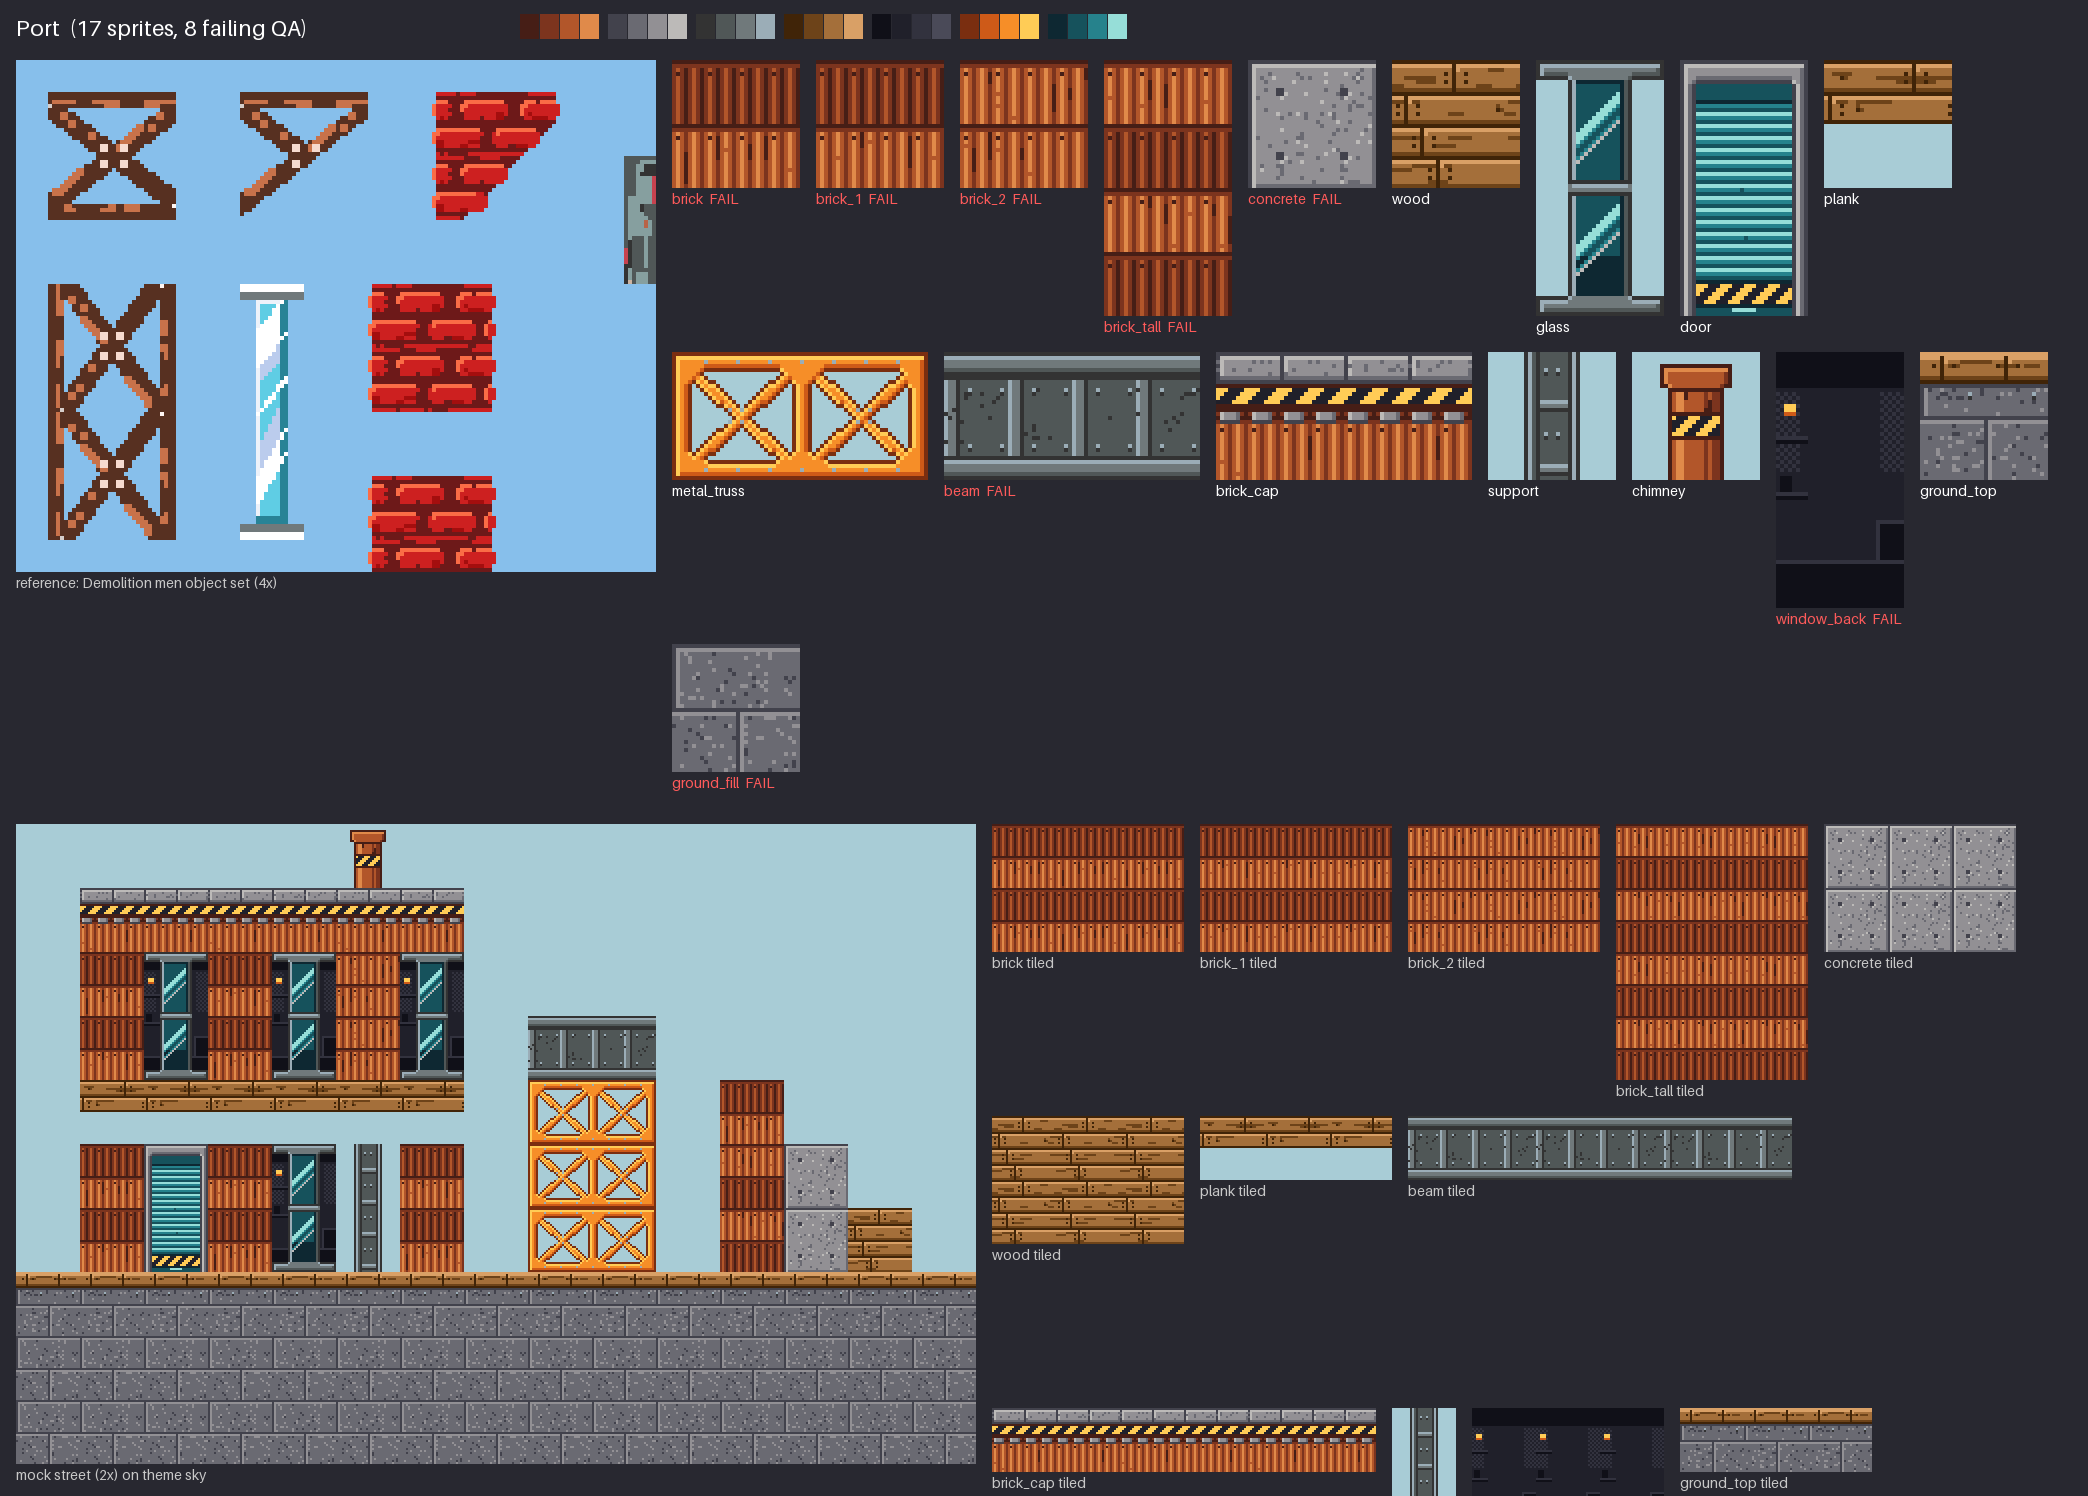
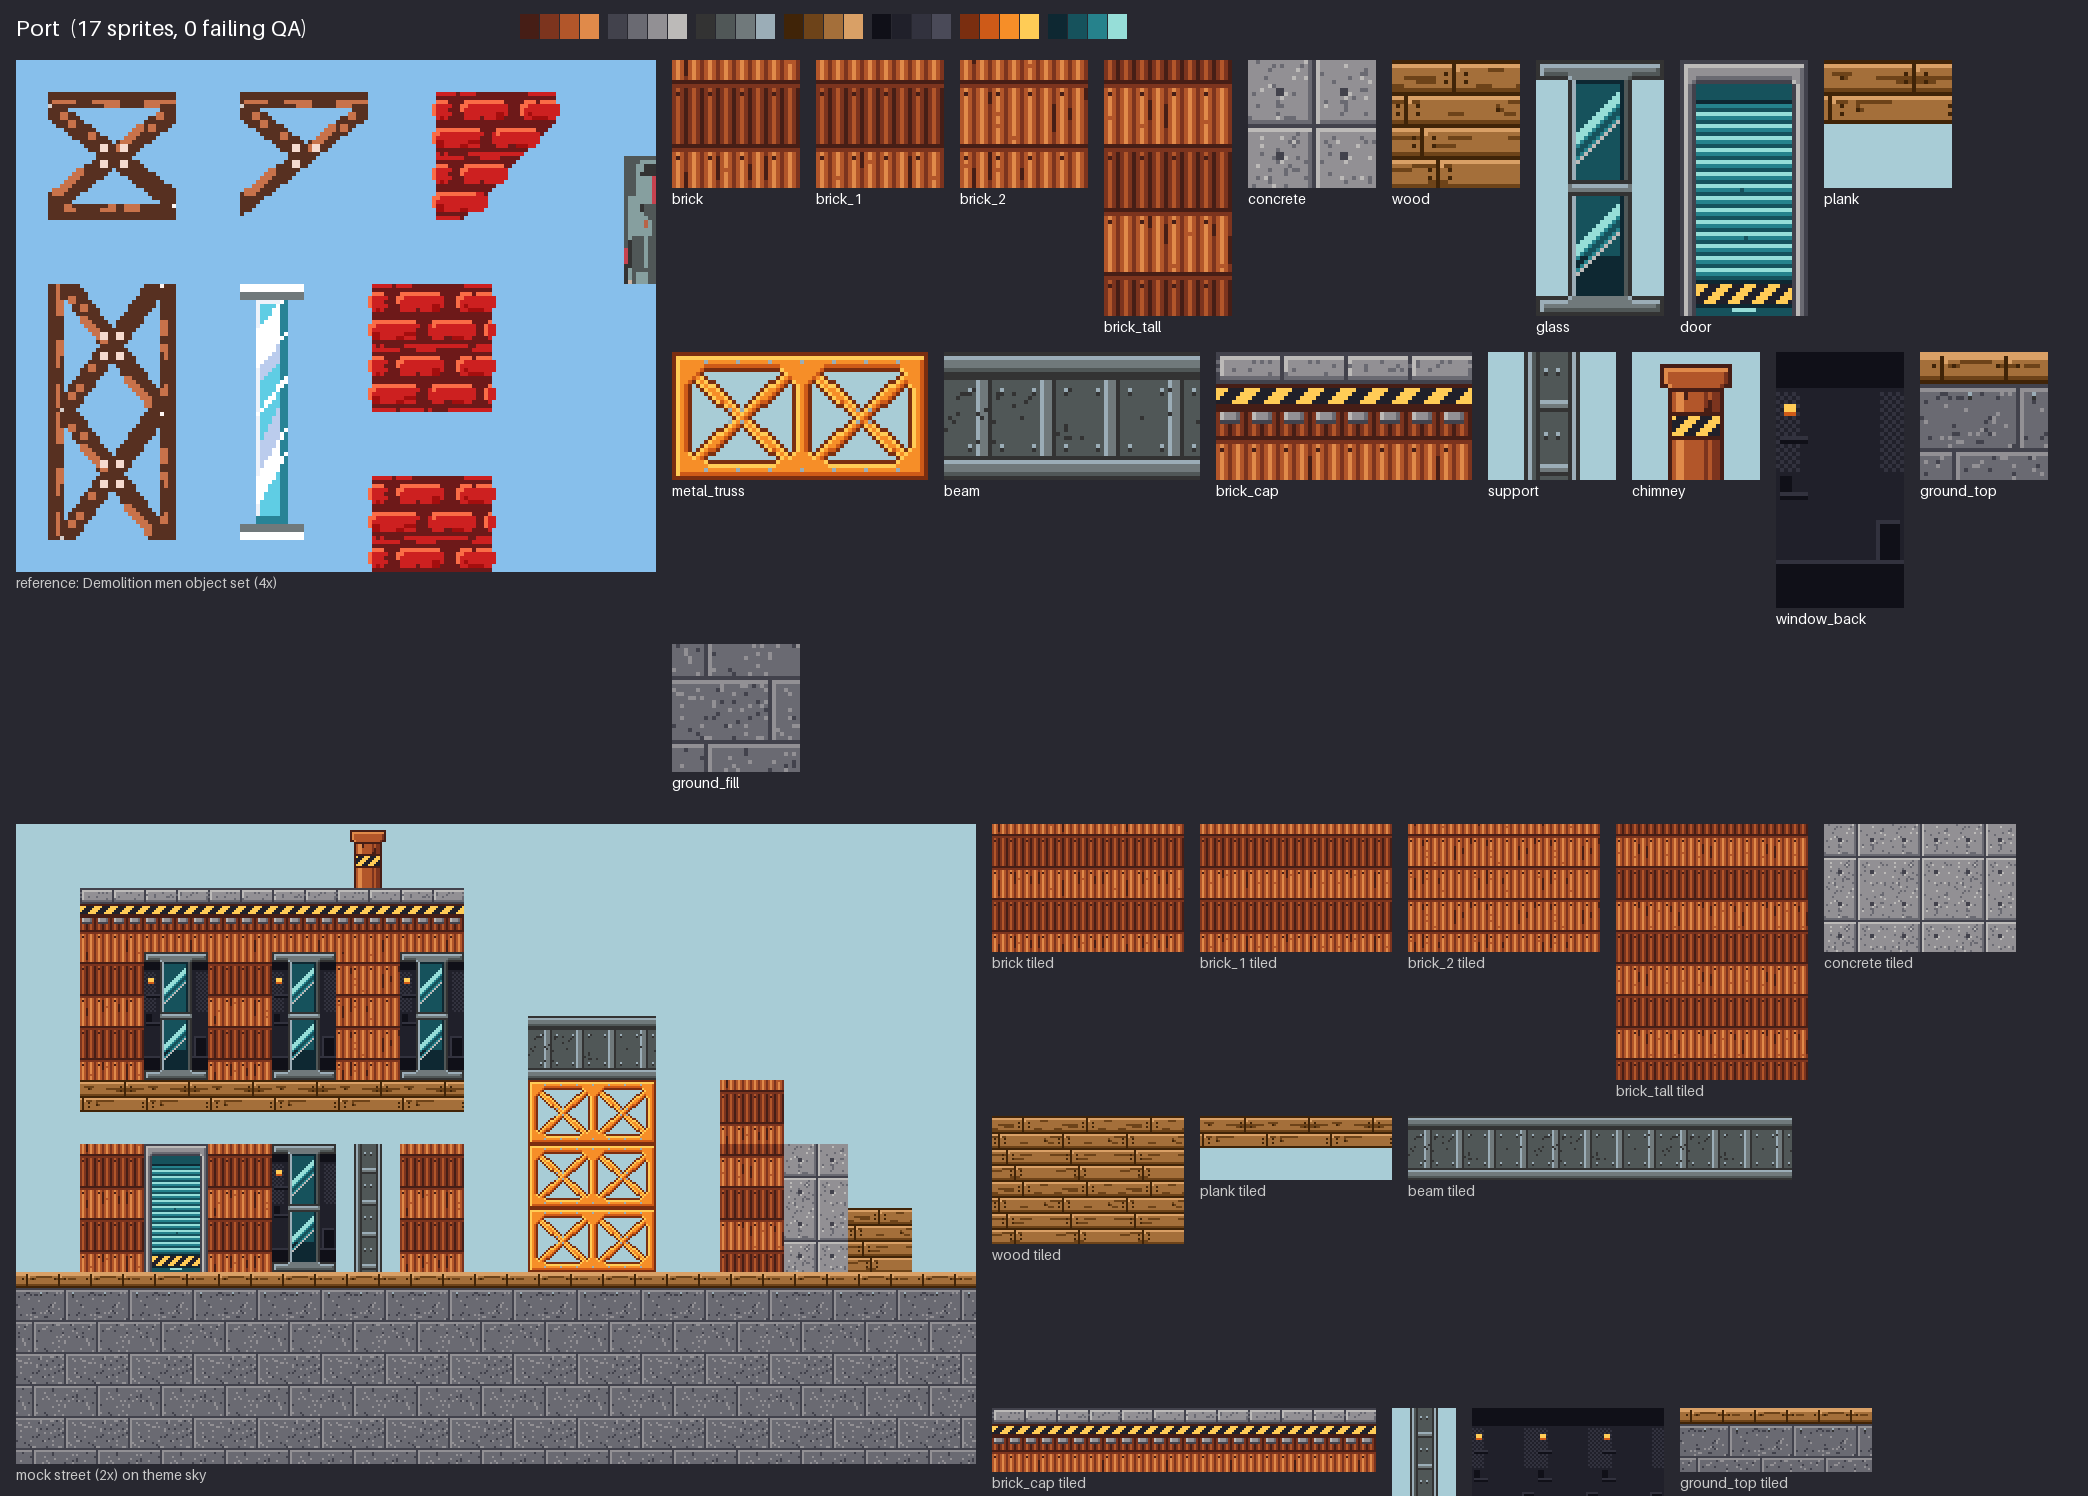
feat: crack overlays on damaged blocks; first play goes to training
Blocks show pixel cracks in three stages as their health drops (on top
of the existing darkening, never healing, leaning with the sprite). A new
profile's first Play takes the joined players straight to the training
yard; afterwards Play opens the level select.

Claude-Session: https://claude.ai/code/session_01J53gSN6QsKYFUfjgzzRpEn

diff --git a/tools/artpipe/tiles.py b/tools/artpipe/tiles.py
@@ -144,7 +144,7 @@ def masonry(r, rng, w, h, course=8, length=16, style="brick"):
                     put(a, xs + rng.integers(2, length - 1), y0 + rng.integers(2, course - 1), r[1] if not dark else r[0])
                 for _ in range(rng.integers(0, 2)):
                     put(a, xs + rng.integers(2, length - 1), y0 + rng.integers(2, course - 2), r[3])
-    return a
+    return np.roll(a, (3, 4), axis=(0, 1))  # keep joints off the tile edge
 
 
 def corrugated(r, rng, w, h):
@@ -169,7 +169,7 @@ def corrugated(r, rng, w, h):
                 put(a, x, y + k, r[0])
         for _ in range(rng.integers(1, 4)):
             put(a, rng.integers(0, w // 4) * 4 + 1, s * 16 + rng.integers(4, 15), r[2])
-    return a
+    return np.roll(a, 5, axis=0)  # keep the lap seam off the tile edge
 
 
 def wall(t, rng, w, h):
@@ -198,7 +198,7 @@ def concrete(t, rng, w=32, h=32):
         if rng.random() < 0.5:  # water stain under the tie
             for k in range(rng.integers(2, 6)):
                 put(a, hx + rng.integers(0, 2), hy + 3 + k, r[1])
-    return a
+    return np.roll(a, (16, 16), axis=(0, 1))  # panel joints inside the tile, edges mid-panel
 
 
 def wood_planks(r, rng, a, y0, y1, w, joints=1, outline_rows=True):
@@ -344,13 +344,13 @@ def window_back(t, rng, w=32, h=64):
         dither[10:30, :] = (np.add.outer(np.arange(h), np.arange(w)) % 2 == 0)[10:30, :]
         dither[10:30, 6:26] = False
         a[dither] = (*r[2], 255)
-        rect(a, 0, 21, 8, 22, r[2])      # shelf left
-        rect(a, 0, 22, 8, 23, r[0])
-        rect(a, 0, 35, 8, 36, r[2])
-        rect(a, 0, 36, 8, 37, r[0])
+        rect(a, 1, 21, 8, 22, r[2])      # shelf left
+        rect(a, 1, 22, 8, 23, r[0])
+        rect(a, 1, 35, 8, 36, r[2])
+        rect(a, 1, 36, 8, 37, r[0])
         rect(a, 1, 31, 4, 35, r[0])      # boxes on the shelf
-        rect(a, 25, 42, 32, 52, r[0])    # crate on the right
-        rect(a, 25, 42, 32, 43, r[2])
+        rect(a, 25, 42, 31, 52, r[0])    # crate on the right
+        rect(a, 25, 42, 31, 43, r[2])
         rect(a, 25, 42, 26, 52, r[2])
         rect(a, 0, 52, w, 53, r[2])      # floor line
         rect(a, 0, 53, w, h, r[0])
@@ -433,7 +433,7 @@ def beam(t, rng, w=64, h=32):
         neon_tube(a, 0, h // 2 - 1, w, h // 2 + 2, palette.ramp(t, m["trim"]))
     elif m.get("stain"):
         speckle(a, rng, np.pad(np.ones((h - 18, w), bool), ((9, 9), (0, 0))), [(r[0], 0.04)])
-    return a
+    return np.roll(a, 8, axis=1)  # stiffeners off the tile edge
 
 
 def brick_cap(t, rng, w=64, h=32):
@@ -558,7 +558,7 @@ def quay_blocks(r, rng, a, y0, y1, row_offset):
             rect(a, 0, y, w, y + 1, r[0])
         elif ay % 16 == 1:
             rect(a, 0, y, w, y + 1, r[2])
-        jx = 0 if (ay // 16) % 2 == 0 else 16
+        jx = 8 if (ay // 16) % 2 == 0 else 24
         if ay % 16 != 0:
             put(a, jx, y, r[0])
             put(a, jx + 1, y, r[2])
@@ -568,7 +568,7 @@ def ground_top(t, rng, w=32, h=32):
     m = t["materials"]["ground"]
     fill = palette.ramp(t, m["fill"])
     a = canvas(w, h)
-    quay_blocks(fill, rng, a, 8, h, 0)
+    quay_blocks(fill, rng, a, 8, h, 8)
     top = palette.ramp(t, m["top"])
     if m["style"] == "dock":
         rect(a, 0, 0, w, 8, top[2])
@@ -612,7 +612,7 @@ def ground_top(t, rng, w=32, h=32):
 def ground_fill(t, rng, w=32, h=32):
     fill = palette.ramp(t, t["materials"]["ground"]["fill"])
     a = canvas(w, h)
-    quay_blocks(fill, rng, a, 0, h, 0)
+    quay_blocks(fill, rng, a, 0, h, 8)
     return a
 
 

diff --git a/Demolition Men/Assets/Scripts/Demolition/Common/View/PrimitiveSprite.cs b/Demolition Men/Assets/Scripts/Demolition/Common/View/PrimitiveSprite.cs
@@ -78,6 +78,56 @@ namespace Demolition
             return _hazard;
         }
 
+        private const int CrackVariants = 3;
+        private static readonly Sprite[] _cracks = new Sprite[3 * CrackVariants];
+
+        /// <summary>Pixel crack overlay, 1 unit square: stage 1..3 (each adds to the last),
+        /// a few variants so neighbouring blocks don't crack alike.</summary>
+        public static Sprite Cracks(int stage, int variant)
+        {
+            stage = Mathf.Clamp(stage, 1, 3);
+            variant = ((variant % CrackVariants) + CrackVariants) % CrackVariants;
+            int index = (stage - 1) * CrackVariants + variant;
+            if (_cracks[index] != null)
+                return _cracks[index];
+
+            const int size = 32;
+            var tex = new Texture2D(size, size, TextureFormat.RGBA32, false)
+            {
+                filterMode = FilterMode.Point,
+                wrapMode = TextureWrapMode.Clamp,
+            };
+            var pixels = new Color[size * size];
+            var dark = new Color(0.08f, 0.06f, 0.05f, 0.85f);
+            var rng = new System.Random(1000 + variant);
+            int[] linesPerStage = { 2, 3, 4 };
+            for (int s = 0; s < stage; s++)
+            {
+                for (int line = 0; line < linesPerStage[s]; line++)
+                {
+                    // A jagged walk from near the centre towards a random edge.
+                    float x = size * 0.5f + rng.Next(-6, 7), y = size * 0.5f + rng.Next(-6, 7);
+                    float angle = (float)(rng.NextDouble() * Mathf.PI * 2f);
+                    int length = 6 + s * 5 + rng.Next(0, 6);
+                    for (int step = 0; step < length; step++)
+                    {
+                        angle += (float)(rng.NextDouble() - 0.5) * 0.9f;
+                        x += Mathf.Cos(angle);
+                        y += Mathf.Sin(angle);
+                        int px = Mathf.RoundToInt(x), py = Mathf.RoundToInt(y);
+                        if (px < 0 || py < 0 || px >= size || py >= size)
+                            break;
+                        pixels[py * size + px] = dark;
+                    }
+                }
+            }
+            tex.SetPixels(pixels);
+            tex.Apply();
+            _cracks[index] = Sprite.Create(tex, new Rect(0, 0, size, size), new Vector2(0.5f, 0.5f), size);
+            _cracks[index].name = $"Cracks{stage}_{variant}";
+            return _cracks[index];
+        }
+
         /// <summary>Soft-edged filled circle.</summary>
         public static Sprite Disc()
         {

diff --git a/Demolition Men/Assets/Scripts/Demolition/Building/Controller/BuildingBlock.cs b/Demolition Men/Assets/Scripts/Demolition/Building/Controller/BuildingBlock.cs
@@ -74,6 +74,8 @@ namespace Demolition
         // Points for this block were already awarded (collapse credit, or a cosmetic
         // rider released by its host), so destroying it later scores nothing.
         private bool _credited;
+        private SpriteRenderer _cracks;
+        private int _crackStage;
         private float _targetLeanDeg;
         private float _targetSag;
         private float _targetDrift;
@@ -197,6 +199,30 @@ namespace Demolition
             float factor = (0.45f + 0.55f * damageFrac) * (IsRubble ? 0.7f : 1f);
             _sr.color = new Color(
                 _baseColor.r * factor, _baseColor.g * factor, _baseColor.b * factor, _baseColor.a);
+            RefreshCracks(damageFrac);
+        }
+
+        // Cracks on top of the darkening: stage 1..3 as health drops, never healing. A child
+        // of the visual, so it leans with the sprite.
+        private void RefreshCracks(float healthFraction)
+        {
+            int stage = healthFraction > 0.75f ? 0 : healthFraction > 0.45f ? 1 : healthFraction > 0.2f ? 2 : 3;
+            if (stage <= _crackStage || _visual == null || material == BlockMaterial.Glass)
+                return;
+            _crackStage = stage;
+            if (_cracks == null)
+            {
+                var go = new GameObject("Cracks");
+                go.transform.SetParent(_visual, false);
+                _cracks = go.AddComponent<SpriteRenderer>();
+                _cracks.sortingLayerID = _sr.sortingLayerID;
+                _cracks.sortingOrder = _sr.sortingOrder + 1;
+                Bounds bounds = _sr.sprite != null ? _sr.sprite.bounds : new Bounds(Vector3.zero, Vector3.one);
+                go.transform.localPosition = bounds.center;
+                go.transform.localScale = new Vector3(bounds.size.x, bounds.size.y, 1f);
+            }
+            Vector3 p = transform.position;
+            _cracks.sprite = PrimitiveSprite.Cracks(stage, Mathf.FloorToInt(p.x * 7f + p.y * 13f));
         }
 
         private void Destroyed()

diff --git a/Demolition Men/Assets/Scripts/Menu/Controller/JoinScreen.cs b/Demolition Men/Assets/Scripts/Menu/Controller/JoinScreen.cs
@@ -8,7 +8,8 @@ using UnityEngine.EventSystems;
 using UnityEngine.InputSystem;
 
 /// <summary>
-/// "Press to join" lobby between the main menu and the level select. Any keyboard or
+/// "Press to join" lobby between the main menu and the level select (the training yard
+/// on a new profile's first play). Any keyboard or
 /// gamepad joins with A / Space and leaves with B / Esc; Start / Enter continues once
 /// someone has joined. On a phone the touchscreen joins as player 1 straight away and the
 /// on-screen START / BACK buttons drive the lobby (a gamepad can still join as player 2).
@@ -79,10 +80,19 @@ public class JoinScreen : MonoBehaviour
         }
     }
 
+    // A brand-new profile goes straight to the training yard; everyone else picks a job.
     private void Continue()
     {
-        if (_open && Session.PlayerCount > 0)
-            StartCoroutine(Close(() => LevelSelectView.Open(BackToMenu)));
+        if (!_open || Session.PlayerCount == 0)
+            return;
+        if (Profile.Data.runsPlayed == 0 && GameConfig.Instance != null)
+        {
+            _open = false;
+            LevelSelection.Clear();
+            RunController.LoadScene(GameConfig.Instance.tutorialScene);
+            return;
+        }
+        StartCoroutine(Close(() => LevelSelectView.Open(BackToMenu)));
     }
 
     private void Back()
